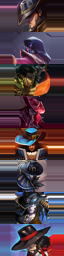
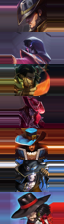
updating TF

diff --git a/twisted fate/styles.scss b/twisted fate/styles.scss
@@ -109,7 +109,7 @@ $colors: #ff574d #fc30e0 #27e0d7;
   }
 }
 
-$flairNames: TFClassicFace BloodmoonTFface CutpurseTFface JoHTFface MusketeerTFfaceNew MusketeerTFfaceOld PaxTFface TangoTFface;
+$flairNames: TFClassicFace BloodmoonTFface CutpurseTFface JoHTFface MusketeerTFfaceNew PaxTFface TangoTFface;
 $rankNames: unranked bronze 'silver' 'gold' platinum diamond master challenger;
 $masteriesCount: 7;
 @for $i from 1 through max(length($flairNames), length($rankNames)) {

diff --git a/twisted fate/index.html b/twisted fate/index.html
@@ -5,7 +5,6 @@ flairs:
   - CutpurseTFface
   - JoHTFface
   - MusketeerTFfaceNew
-  - MusketeerTFfaceOld
   - PaxTFface
   - TangoTFface
 masteries: 7
